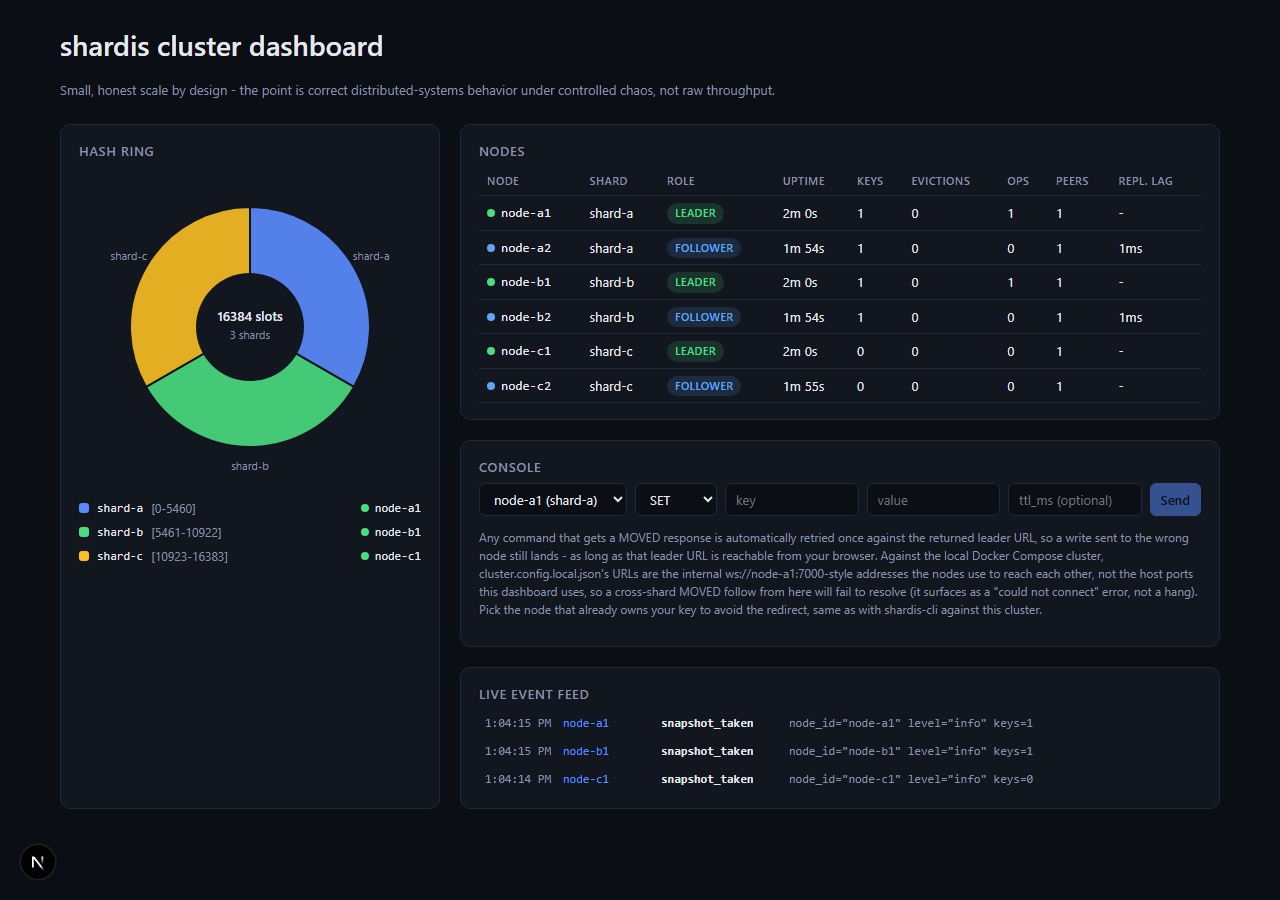
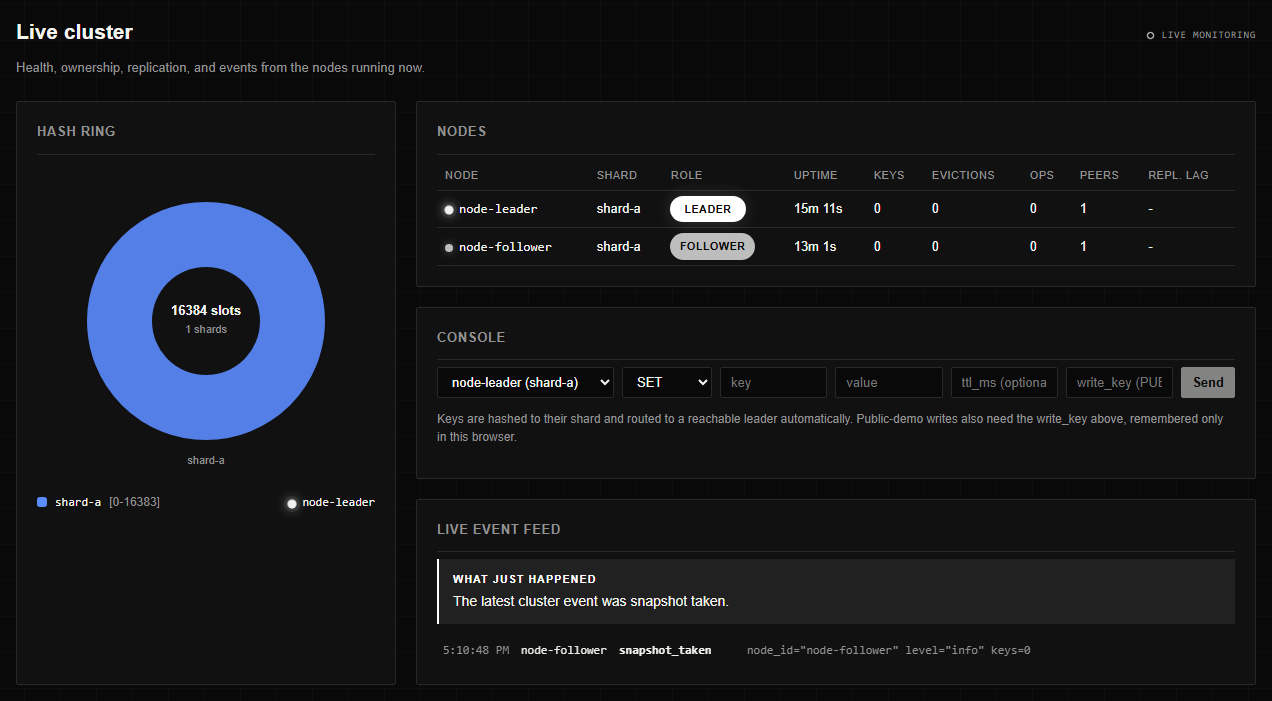
Add live demo links and refresh dashboard screenshot.
Point LinkedIn/README readers at the hosted Vercel dashboard and Render health endpoints, and replace the stale local-cluster screenshot with the live two-node demo UI.

diff --git a/docs/deployment.md b/docs/deployment.md
@@ -112,12 +112,12 @@ data directory and should be copied manually before important demonstrations.
 
 ## Status of this deployment
 
-As of this repo's current state, `render.yaml` and
-`cluster.config.render.json` are written and locally validated (the
-node boots correctly under the exact env vars Render will set, and
-write-protection/CORS behave as expected — see the Step 16 commit for
-the validation done without a live Render account). The actual Render
-and Vercel deployments require signing into those platforms
-interactively, which wasn't done as part of writing this repo. Follow
-the steps above to actually put it live, then update the README's
-"Live demo" section with the real URL.
+Live:
+
+- Dashboard: https://shardis-benchmarks.vercel.app/
+- Leader: https://shardis-leader.onrender.com/healthz
+- Follower: https://shardis-follower.onrender.com/healthz
+
+`render.yaml` and `cluster.config.render.json` define the reduced
+two-node public demo. Free Render services sleep after idle traffic;
+see the README Live demo section for the cold-start caveat.

diff --git a/README.md b/README.md
@@ -11,6 +11,13 @@ It is intentionally a small-scale learning and demonstration system—not a Redi
 
 ![Shardis dashboard](docs/media/dashboard-screenshot.png)
 
+## Live demo
+
+- **Dashboard:** [shardis-benchmarks.vercel.app](https://shardis-benchmarks.vercel.app/)
+- **Nodes:** [leader `/healthz`](https://shardis-leader.onrender.com/healthz) · [follower `/healthz`](https://shardis-follower.onrender.com/healthz)
+
+Free Render services sleep after idle traffic and can take about a minute to wake. The dashboard retries automatically and shows a waking state during that interval.
+
 ## Highlights
 
 - **Distributed data path** — Redis CRC16 hash slots, hash tags, cross-shard `MOVED` redirects, and `ASK` redirects while slots migrate.
